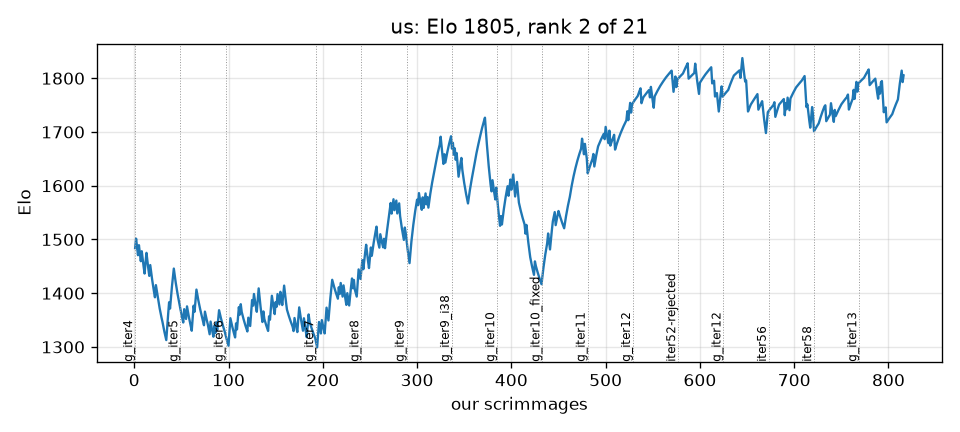
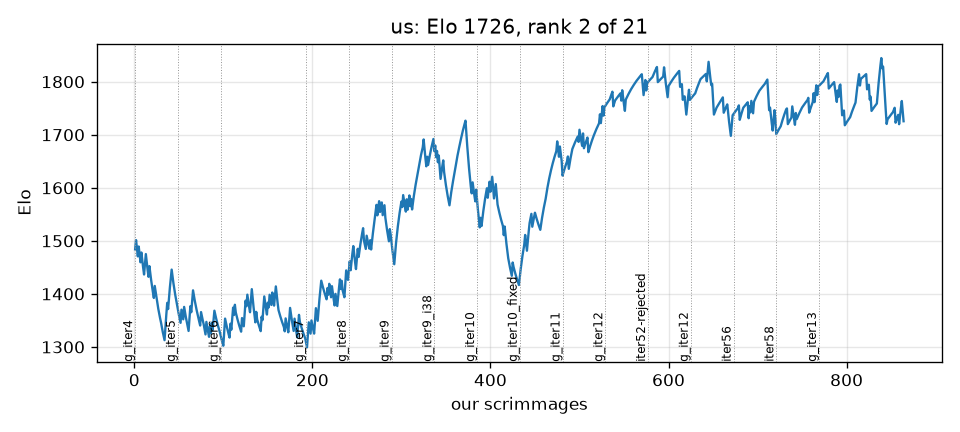
g_iter13 third ladder block 36/48 (awesomelemonade 5/6); three-block table
Claude-Session: https://claude.ai/code/session_01VgeNHsn9ncLsLui8RaK6L7

diff --git a/BENCHMARK.md b/BENCHMARK.md
@@ -86,7 +86,7 @@ above the 20% line, so every bot we have played may be reviewed.
 | `123kevinlee.atomAlphaV14` | 123kevinlee_Battlecode2021-TeamAtom (d121441) | - | - | untested |  |
 | `123kevinlee.atomFinal` | 123kevinlee_Battlecode2021-TeamAtom (d121441) | - | - | untested |  |
 | `123kevinlee.atomFinalHS` | 123kevinlee_Battlecode2021-TeamAtom (d121441) | - | - | untested |  |
-| `123kevinlee.atomFinalQualifier` | 123kevinlee_Battlecode2021-TeamAtom (d121441) | 100 | 6 | peer(>90 once) | 0 29 29 47 17 42 33 83 100 83 100 100 100 83 100 |
+| `123kevinlee.atomFinalQualifier` | 123kevinlee_Battlecode2021-TeamAtom (d121441) | 100 | 12 | peer(>90 once) | 0 29 29 47 17 42 33 83 100 83 100 100 100 83 100 |
 | `123kevinlee.atomFinalV22` | 123kevinlee_Battlecode2021-TeamAtom (d121441) | - | - | untested |  |
 | `123kevinlee.atomStorm` | 123kevinlee_Battlecode2021-TeamAtom (d121441) | - | - | untested |  |
 | `123kevinlee.atomV11` | 123kevinlee_Battlecode2021-TeamAtom (d121441) | - | - | untested |  |
@@ -171,7 +171,7 @@ above the 20% line, so every bot we have played may be reviewed.
 | `OliverMKing.oliverrushbot2` | OliverMKing_battlecode-2021 (14e4015) | - | - | untested |  |
 | `OliverMKing.templatebot` | OliverMKing_battlecode-2021 (14e4015) | - | - | untested |  |
 | `SLaGrave.AlphaCentauri` | SLaGrave_battlecode21 (9ae0ff4) | 100 | 6 | peer(>90 once) | 100 |
-| `Scott-Poole.spright8` | Scott-Poole_battlecode21 (57f898a) | 83 | 6 | peer | 7 12 39 17 25 50 33 33 50 67 67 83 92 83 83 100 83 |
+| `Scott-Poole.spright8` | Scott-Poole_battlecode21 (57f898a) | 67 | 12 | peer | 7 12 39 17 25 50 33 33 50 67 67 83 92 83 83 100 67 |
 | `Sihal3.cavShieldv05` | Sihal3_cavshield (7a90425) | - | - | untested |  |
 | `Sihal3.cavShieldv1` | Sihal3_cavshield (7a90425) | - | - | untested |  |
 | `Sihal3.cavShieldv2` | Sihal3_cavshield (7a90425) | - | - | untested |  |
@@ -246,7 +246,7 @@ above the 20% line, so every bot we have played may be reviewed.
 | `angelaloh09.camelmanplayer_old` | angelaloh09_BattleCode2021-CamelMan (1a1ad19) | - | - | untested |  |
 | `anshgs.ho4` | anshgs_Fandead (00ef0fd) | 17 | 6 | locked | 7 14 17 |
 | `arya-k.quals` | arya-k_bc21 (7791795) | - | - | untested |  |
-| `arya-k.quals_v1` | arya-k_bc21 (7791795) | 100 | 6 | peer(>90 once) | 50 42 39 67 42 67 83 83 100 100 100 83 83 100 |
+| `arya-k.quals_v1` | arya-k_bc21 (7791795) | 100 | 12 | peer(>90 once) | 50 42 39 67 42 67 83 83 100 100 100 83 83 100 |
 | `arya-k.refactor` | arya-k_bc21 (7791795) | - | - | untested |  |
 | `arya-k.seeding` | arya-k_bc21 (7791795) | - | - | untested |  |
 | `arya-k.seeding_bad_econ` | arya-k_bc21 (7791795) | - | - | untested |  |
@@ -291,7 +291,7 @@ above the 20% line, so every bot we have played may be reviewed.
 | `awesomelemonade.pdefense2` | awesomelemonade_battlecode-2021 (e9c4afc) | - | - | untested |  |
 | `awesomelemonade.ppbot` | awesomelemonade_battlecode-2021 (e9c4afc) | - | - | untested |  |
 | `awesomelemonade.spreadout` | awesomelemonade_battlecode-2021 (e9c4afc) | - | - | untested |  |
-| `awesomelemonade.sprint1bot` | awesomelemonade_battlecode-2021 (e9c4afc) | 33 | 6 | target | 0 25 0 0 0 17 33 0 0 0 33 33 33 50 33 33 |
+| `awesomelemonade.sprint1bot` | awesomelemonade_battlecode-2021 (e9c4afc) | 58 | 12 | peer | 0 25 0 0 0 17 33 0 0 0 33 33 33 50 33 58 |
 | `awesomelemonade.trollbigps` | awesomelemonade_battlecode-2021 (e9c4afc) | - | - | untested |  |
 | `awesomelemonade.v1_10` | awesomelemonade_battlecode-2021 (e9c4afc) | - | - | untested |  |
 | `awesomelemonade.waves` | awesomelemonade_battlecode-2021 (e9c4afc) | - | - | untested |  |
@@ -320,7 +320,7 @@ above the 20% line, so every bot we have played may be reviewed.
 | `evan-schott.bugplayer` | evan-schott_battlecode2021 (1d7b865) | 100 | 6 | peer(>90 once) | 100 |
 | `evan-schott.nullplayer` | evan-schott_battlecode2021 (1d7b865) | - | - | untested |  |
 | `evan-schott.simpleplayer` | evan-schott_battlecode2021 (1d7b865) | - | - | untested |  |
-| `iliao2345.attacker` | iliao2345_Battlecode2021 (d620569) | 50 | 6 | peer | 21 31 37 17 42 50 83 100 67 83 100 100 100 50 |
+| `iliao2345.attacker` | iliao2345_Battlecode2021 (d620569) | 42 | 12 | target | 21 31 37 17 42 50 83 100 67 83 100 100 100 42 |
 | `iliao2345.buryguard` | iliao2345_Battlecode2021 (d620569) | - | - | untested |  |
 | `iliao2345.donothing` | iliao2345_Battlecode2021 (d620569) | - | - | untested |  |
 | `iliao2345.explore_test` | iliao2345_Battlecode2021 (d620569) | - | - | untested |  |
@@ -388,7 +388,7 @@ above the 20% line, so every bot we have played may be reviewed.
 | `jmerle.camel_case_v4` | jmerle_battlecode-2021 (5f4a269) | - | - | untested |  |
 | `jmerle.camel_case_v5` | jmerle_battlecode-2021 (5f4a269) | - | - | untested |  |
 | `jmerle.camel_case_v6_sprint_1` | jmerle_battlecode-2021 (5f4a269) | - | - | untested |  |
-| `jmerle.camel_case_v7_sprint_2` | jmerle_battlecode-2021 (5f4a269) | 100 | 6 | solved | 14 38 45 17 42 17 67 50 100 100 100 100 100 100 100 100 |
+| `jmerle.camel_case_v7_sprint_2` | jmerle_battlecode-2021 (5f4a269) | 100 | 12 | solved | 14 38 45 17 42 17 67 50 100 100 100 100 100 100 100 100 |
 | `mama4294.Maloneplayer` | mama4294_Battlecode21 (583166a) | 100 | 6 | peer(>90 once) | 100 |
 | `max-titov.ECtest` | max-titov_2021.battlecode-KFA (168559c) | - | - | untested |  |
 | `max-titov.commsplayer` | max-titov_2021.battlecode-KFA (168559c) | - | - | untested |  |
@@ -396,7 +396,7 @@ above the 20% line, so every bot we have played may be reviewed.
 | `max-titov.navtest` | max-titov_2021.battlecode-KFA (168559c) | - | - | untested |  |
 | `max-titov.navtest2` | max-titov_2021.battlecode-KFA (168559c) | - | - | untested |  |
 | `max-titov.playertemplate` | max-titov_2021.battlecode-KFA (168559c) | - | - | untested |  |
-| `max-titov.sprintplayer` | max-titov_2021.battlecode-KFA (168559c) | 100 | 6 | peer(>90 once) | 25 33 45 67 25 67 67 100 100 92 67 67 83 100 |
+| `max-titov.sprintplayer` | max-titov_2021.battlecode-KFA (168559c) | 92 | 12 | peer(>90 once) | 25 33 45 67 25 67 67 100 100 92 67 67 83 92 |
 | `max-titov.voting_test` | max-titov_2021.battlecode-KFA (168559c) | - | - | untested |  |
 | `mhahn2003.bug` | mhahn2003_bc21 (175fd93) | - | - | untested |  |
 | `mhahn2003.coms` | mhahn2003_bc21 (175fd93) | - | - | untested |  |
@@ -518,7 +518,7 @@ above the 20% line, so every bot we have played may be reviewed.
 | `rzhan11.muckspam` | rzhan11_Battlecode2021 (f21c274) | - | - | untested |  |
 | `rzhan11.newday` | rzhan11_Battlecode2021 (f21c274) | - | - | untested |  |
 | `rzhan11.sprint` | rzhan11_Battlecode2021 (f21c274) | - | - | untested |  |
-| `rzhan11.sprint2` | rzhan11_Battlecode2021 (f21c274) | 83 | 6 | peer | 0 11 0 8 33 17 33 33 0 33 67 42 50 33 67 83 |
+| `rzhan11.sprint2` | rzhan11_Battlecode2021 (f21c274) | 67 | 12 | peer | 0 11 0 8 33 17 33 33 0 33 67 42 50 33 67 67 |
 | `rzhan11.template` | rzhan11_Battlecode2021 (f21c274) | - | - | untested |  |
 | `rzhan11.wander_defense` | rzhan11_Battlecode2021 (f21c274) | - | - | untested |  |
 | `saivivekvenna.Ba_ba_booie` | saivivekvenna_BattleCode-2021 (636ec61) | 100 | 6 | peer(>90 once) | 100 |

diff --git a/progress/ELO.md b/progress/ELO.md
@@ -1,29 +1,29 @@
 # Elo ladder
 
-816 scrimmages (ours only); K=32 from 1500; our team is **us**: rank 2 of 21 rated bots, Elo 1805, 816 games; 45 bots not yet met.
+864 scrimmages (ours only); K=32 from 1500; our team is **us**: rank 2 of 21 rated bots, Elo 1726, 864 games; 45 bots not yet met.
 
 | rank | bot | Elo | games | W-L (theirs) |
 |---|---|---|---|---|
-| 1 | awesomelemonade.sprint1bot | 1859 | 102 | 83-19 |
-| 2 | **us** | 1805 | 816 | 476-340 |
-| 3 | rzhan11.sprint2 | 1702 | 102 | 69-33 |
+| 1 | awesomelemonade.sprint1bot | 1793 | 108 | 84-24 |
+| 2 | **us** | 1726 | 864 | 512-352 |
+| 3 | rzhan11.sprint2 | 1714 | 108 | 72-36 |
 | 4 | rqi3.qualification_bot | 1641 | 12 | 11-1 |
 | 5 | BSreenivas0713.musketeerplayerfinal | 1569 | 6 | 5-1 |
 | 6 | iyzg.sbot17 | 1561 | 6 | 5-1 |
 | 7 | VittalT.final_usqualplayer3_subm | 1552 | 6 | 4-2 |
-| 8 | StoneT2000.sprinttuna | 1531 | 6 | 3-3 |
-| 9 | naalit.mukrush | 1458 | 6 | 0-6 |
-| 10 | unai-gurbindo.camelmanplayer | 1451 | 6 | 0-6 |
-| 11 | raytran.dlmoreram010921 | 1448 | 6 | 0-6 |
-| 12 | iliao2345.attacker | 1445 | 84 | 29-55 |
-| 13 | Scott-Poole.spright8 | 1441 | 102 | 41-61 |
+| 8 | iliao2345.attacker | 1541 | 90 | 33-57 |
+| 9 | StoneT2000.sprinttuna | 1531 | 6 | 3-3 |
+| 10 | Scott-Poole.spright8 | 1510 | 108 | 44-64 |
+| 11 | naalit.mukrush | 1458 | 6 | 0-6 |
+| 12 | unai-gurbindo.camelmanplayer | 1451 | 6 | 0-6 |
+| 13 | raytran.dlmoreram010921 | 1448 | 6 | 0-6 |
 | 14 | jjtippetts.influencerforceplayer | 1437 | 6 | 0-6 |
 | 15 | qawsedrftgzh.battlecode2021 | 1435 | 6 | 0-6 |
 | 16 | ChiragKalra.gen5 | 1429 | 6 | 0-6 |
 | 17 | astelmach20.piedPiper | 1422 | 6 | 0-6 |
-| 18 | max-titov.sprintplayer | 1417 | 84 | 22-62 |
-| 19 | arya-k.quals_v1 | 1316 | 84 | 19-65 |
-| 20 | jmerle.camel_case_v7_sprint_2 | 1291 | 96 | 26-70 |
-| 21 | 123kevinlee.atomFinalQualifier | 1291 | 84 | 23-61 |
+| 18 | max-titov.sprintplayer | 1422 | 90 | 23-67 |
+| 19 | arya-k.quals_v1 | 1302 | 90 | 19-71 |
+| 20 | 123kevinlee.atomFinalQualifier | 1282 | 90 | 23-67 |
+| 21 | jmerle.camel_case_v7_sprint_2 | 1278 | 102 | 26-76 |
 
 Not yet met (1500 until their first game against us): Ahhorse1.WinstonPlayer, Aryan34.bot, Aryo-Patel.finalBot, BattlecodeTeam4.robotalpha, BoluAdubi.bot1, BryceKan3.bot.tournament.sprint, IvanGeffner.thirtyone, JCRaymond.bot.tournament.sprint, JasonYe4273.finals, Mahpare.hackatrainee_v1, OliverMKing.bot.tournament.sprint, SLaGrave.AlphaCentauri, Sihal3.cavShieldv705, TeamSerpentine.mars, Techno-coder.muckrakers, TylerQube.sandmenplayer, Victoriano012.SprintBot2, abhishekshree.bot2, aidan-mundy.final_usqualplayer3_subm, alextheimer.player, ama29.v6, angelaloh09.camelmanplayer, anshgs.ho4, davidfang00.Rushbot3, diegorod9000.Newcomer, dominicmkennedy.playerj3, edlwang.sprint2, ehiggins98.initialbot, evan-schott.bugplayer, jay20162016.ecobot, mama4294.Maloneplayer, mhahn2003.finals, mhbtz1.presprint, mvpatel2000.biden, nickel-dime.piedPiper, nsortur.piedPiper, paulmure.sprintplayer, pranayagra.finalbot11, ryanbai1412.sprint_0, saivivekvenna.Ba_ba_booie, sasank02.framework3_mr_density, thevaliantthird.bot1, winkelmantanner.tannerplayer, woodstockcs.fanandflag, wstan2001.boundfinder

diff --git a/TRAINING_LOG.md b/TRAINING_LOG.md
@@ -5744,3 +5744,20 @@ the current build (it beat g_iter12 outright on the fixed Arena seed). That is t
 METHOD 6b-ii asks of a sparring partner: 25-75%, so a change against it can be read. A third
 ladder block for `g_iter13` is running (`gauntlet/ladder-g13c.log`) to firm up the final rating;
 the SPRT stands at 80-80 after ten batches and runs to the cap.
+
+## `g_iter13` third ladder block: 36/48; three blocks 114/144, the strong bots 20/36 (2026-09-22 21:05 UTC)
+
+Third block: **awesomelemonade 5/6** (the best record ever against the bot at the top of the
+ladder), rzhan11 3/6, max-titov 5/6, but Scott-Poole 3/6 and iliao2345 2/6. Three blocks of the
+same build on the same field:
+
+| | g_iter12 (96) | **g_iter13 (144)** |
+|---|---|---|
+| overall | 77/96 (80.2%) | 114/144 (79.2%) |
+| awesomelemonade | 4/12 (33%) | **9/18 (50%)** |
+| rzhan11 | 5/12 (42%) | **12/18 (67%)** |
+| the six we beat | 68/72 (94%) | 93/108 (86%) |
+
+The change buys games from the two swarm bots and gives some back to the six we used to sweep
+(Scott-Poole and iliao2345 in this block). SPRT 112-112 (50.0%, LLR -2.90) with one batch to the
+cap: the mirror sees nothing, as the hedge intended. Ladder after recording: 864 scrimmages (ours only); K=32 from 1500; our team is **us**: rank 2 of 21 rated bots, Elo 1726, 864 games; 

diff --git a/PROMPTS.md b/PROMPTS.md
@@ -448,3 +448,9 @@ Following up on earlier conversations, I'd like you to focus your enhanced intel
 > task check.  If the VM is idle and you're not working on anything, come up with a new idea.  Otherwise, continue as you are
 
 > task check.  If the VM is idle and you're not working on anything, come up with a new idea.  Otherwise, continue as you are
+
+> task check.  If the VM is idle and you're not working on anything, come up with a new idea.  Otherwise, continue as you are
+
+> task check.  If the VM is idle and you're not working on anything, come up with a new idea.  Otherwise, continue as you are
+
+> task check.  If the VM is idle and you're not working on anything, come up with a new idea.  Otherwise, continue as you are
